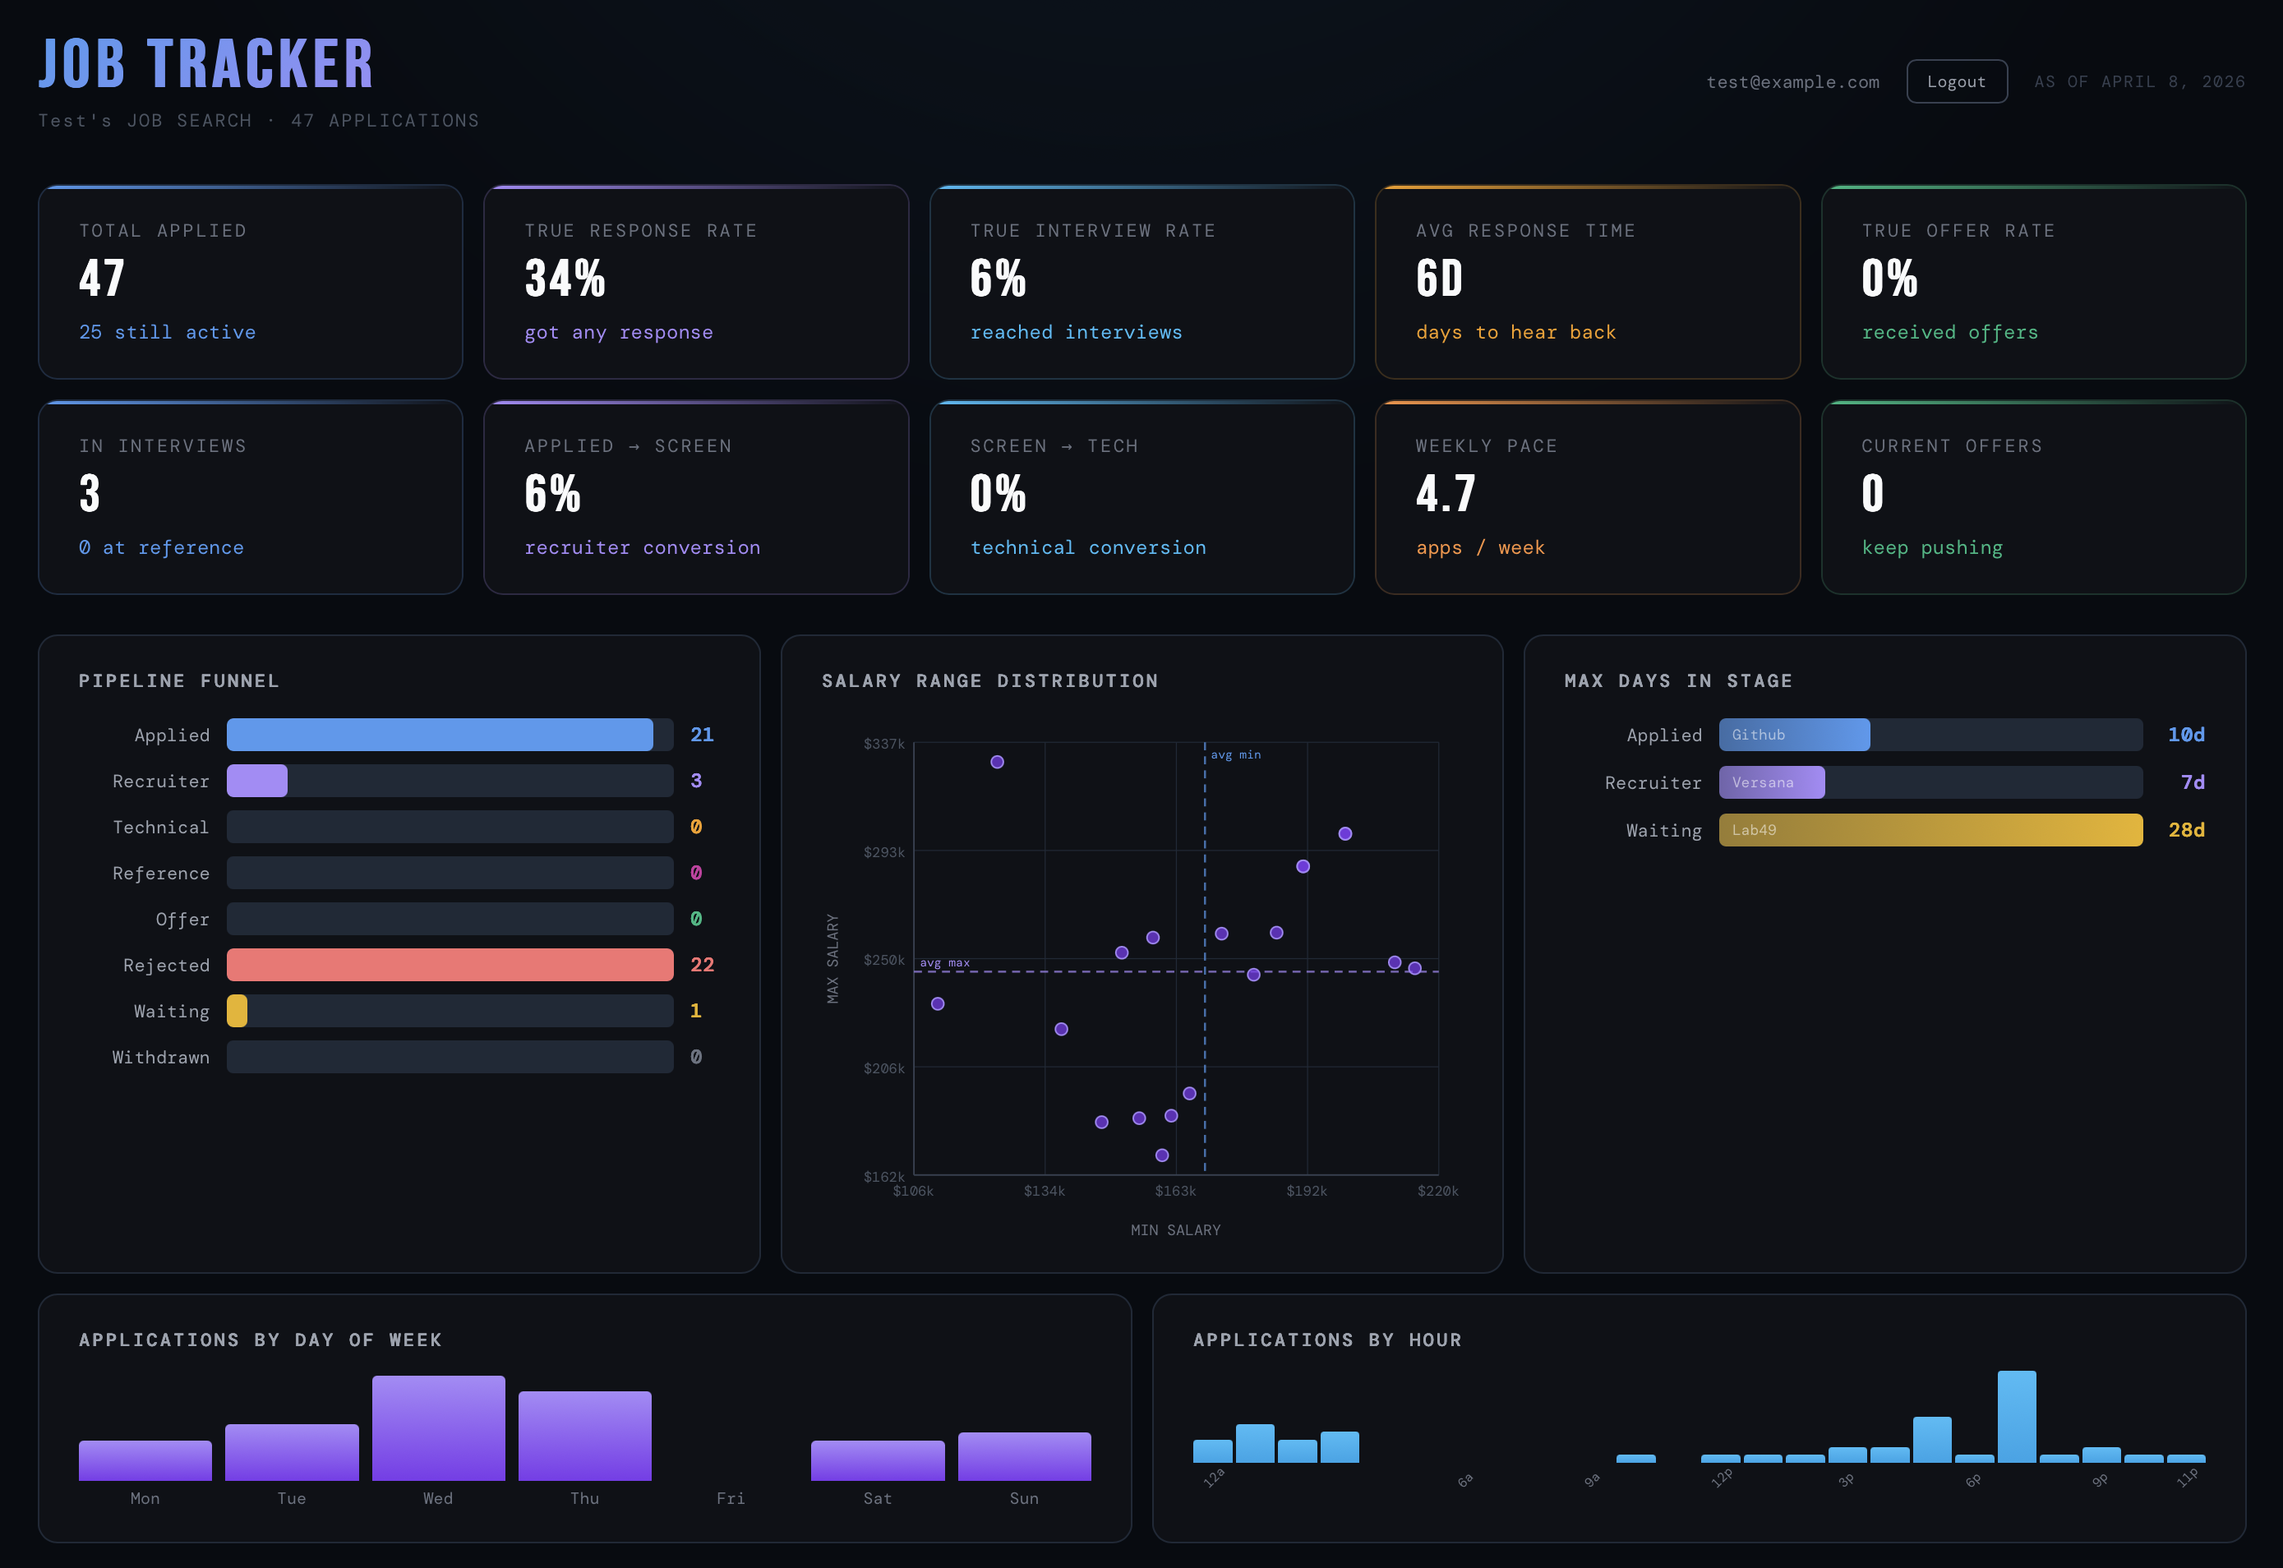
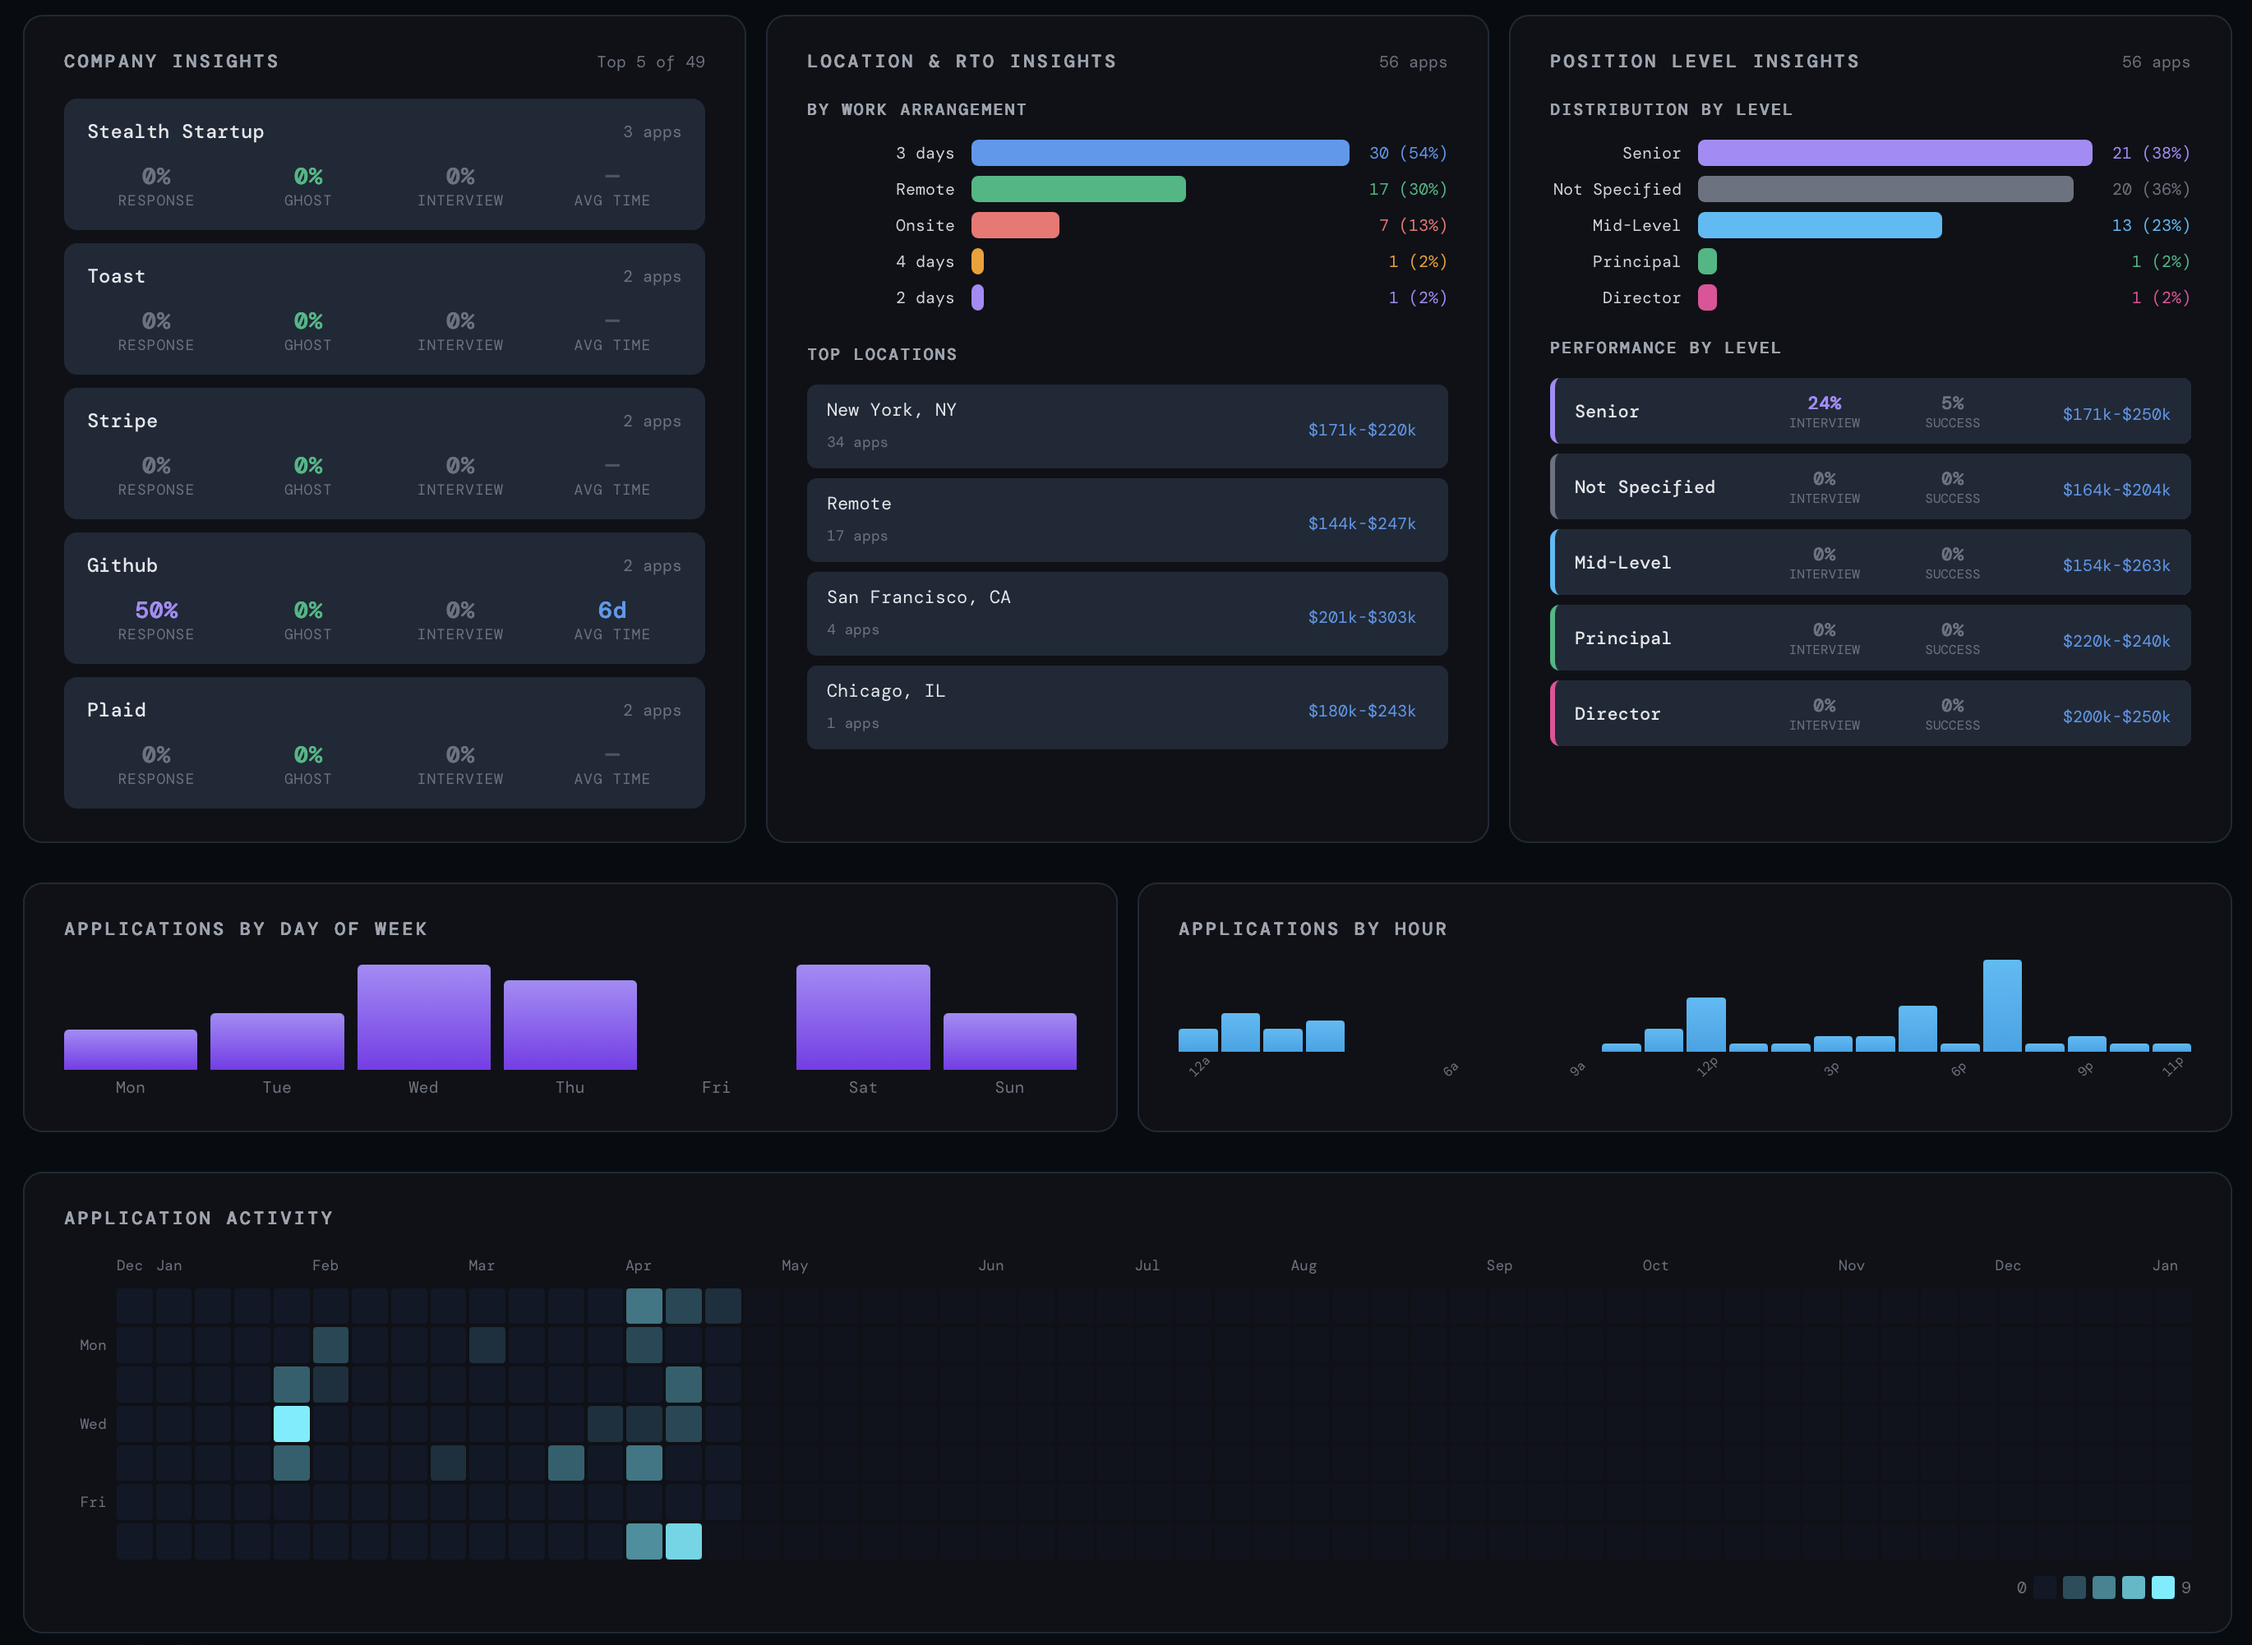
readme update

diff --git a/README.md b/README.md
@@ -1,6 +1,8 @@
-![Metrics](https://github.com/Jnolcox/job-tracker/blob/develop/img2.png)
+![Metrics](https://github.com/Jnolcox/job-tracker/blob/develop/img1.png)
 
-![Dashboard](https://github.com/Jnolcox/job-tracker/blob/develop/img.png)
+![Dashboard](https://github.com/Jnolcox/job-tracker/blob/develop/img2.png)
+
+![Table](https://github.com/Jnolcox/job-tracker/blob/develop/img3.png)
 
 A full-stack job application tracking system with React frontend and Spring Boot backend, featuring JWT-based authentication and comprehensive job application management.
 
